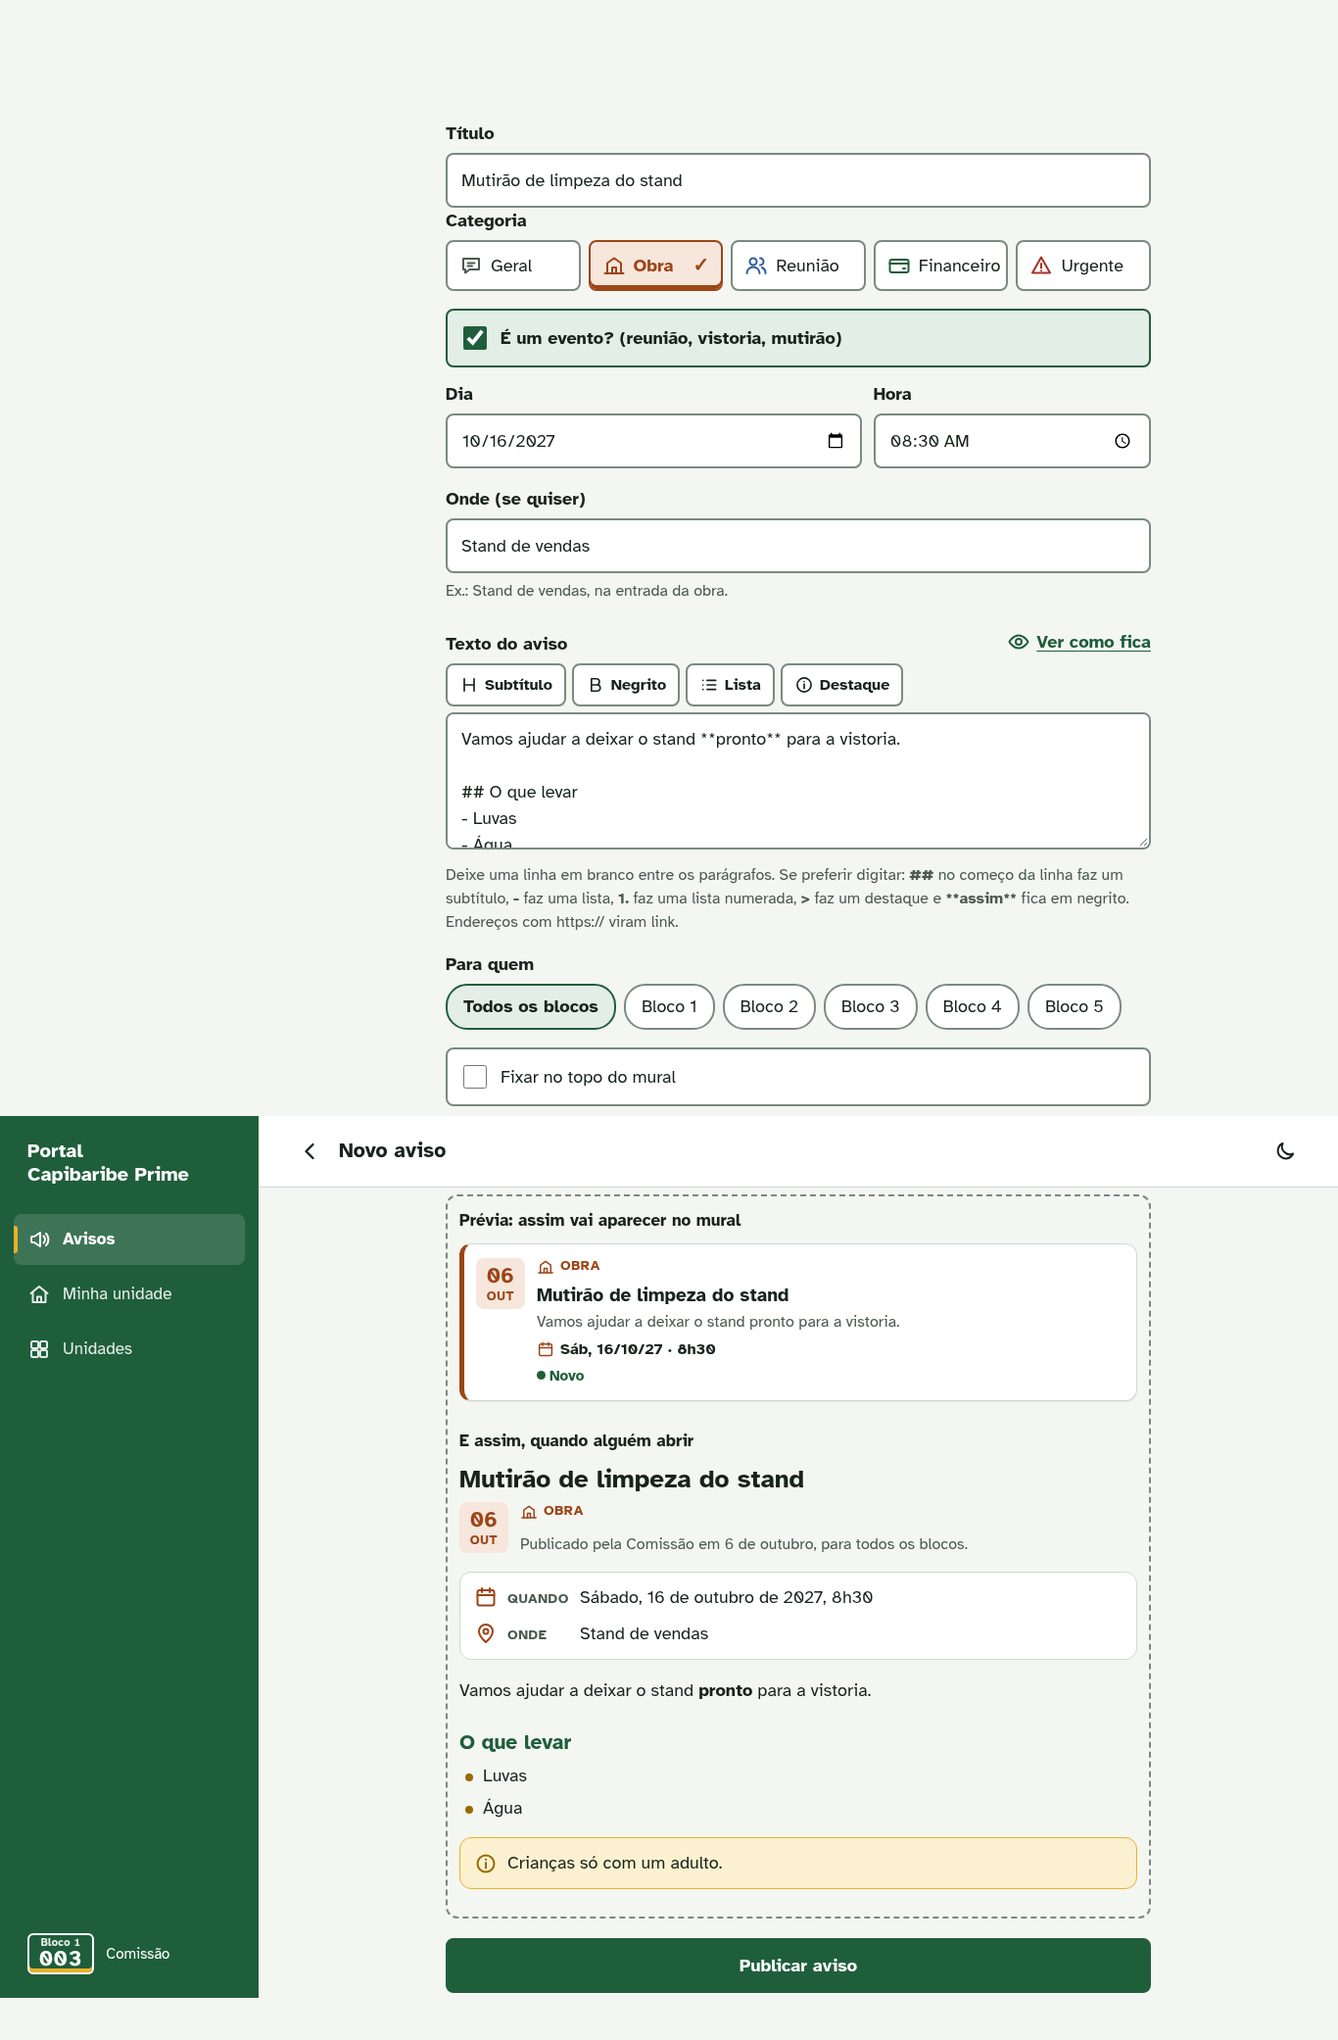
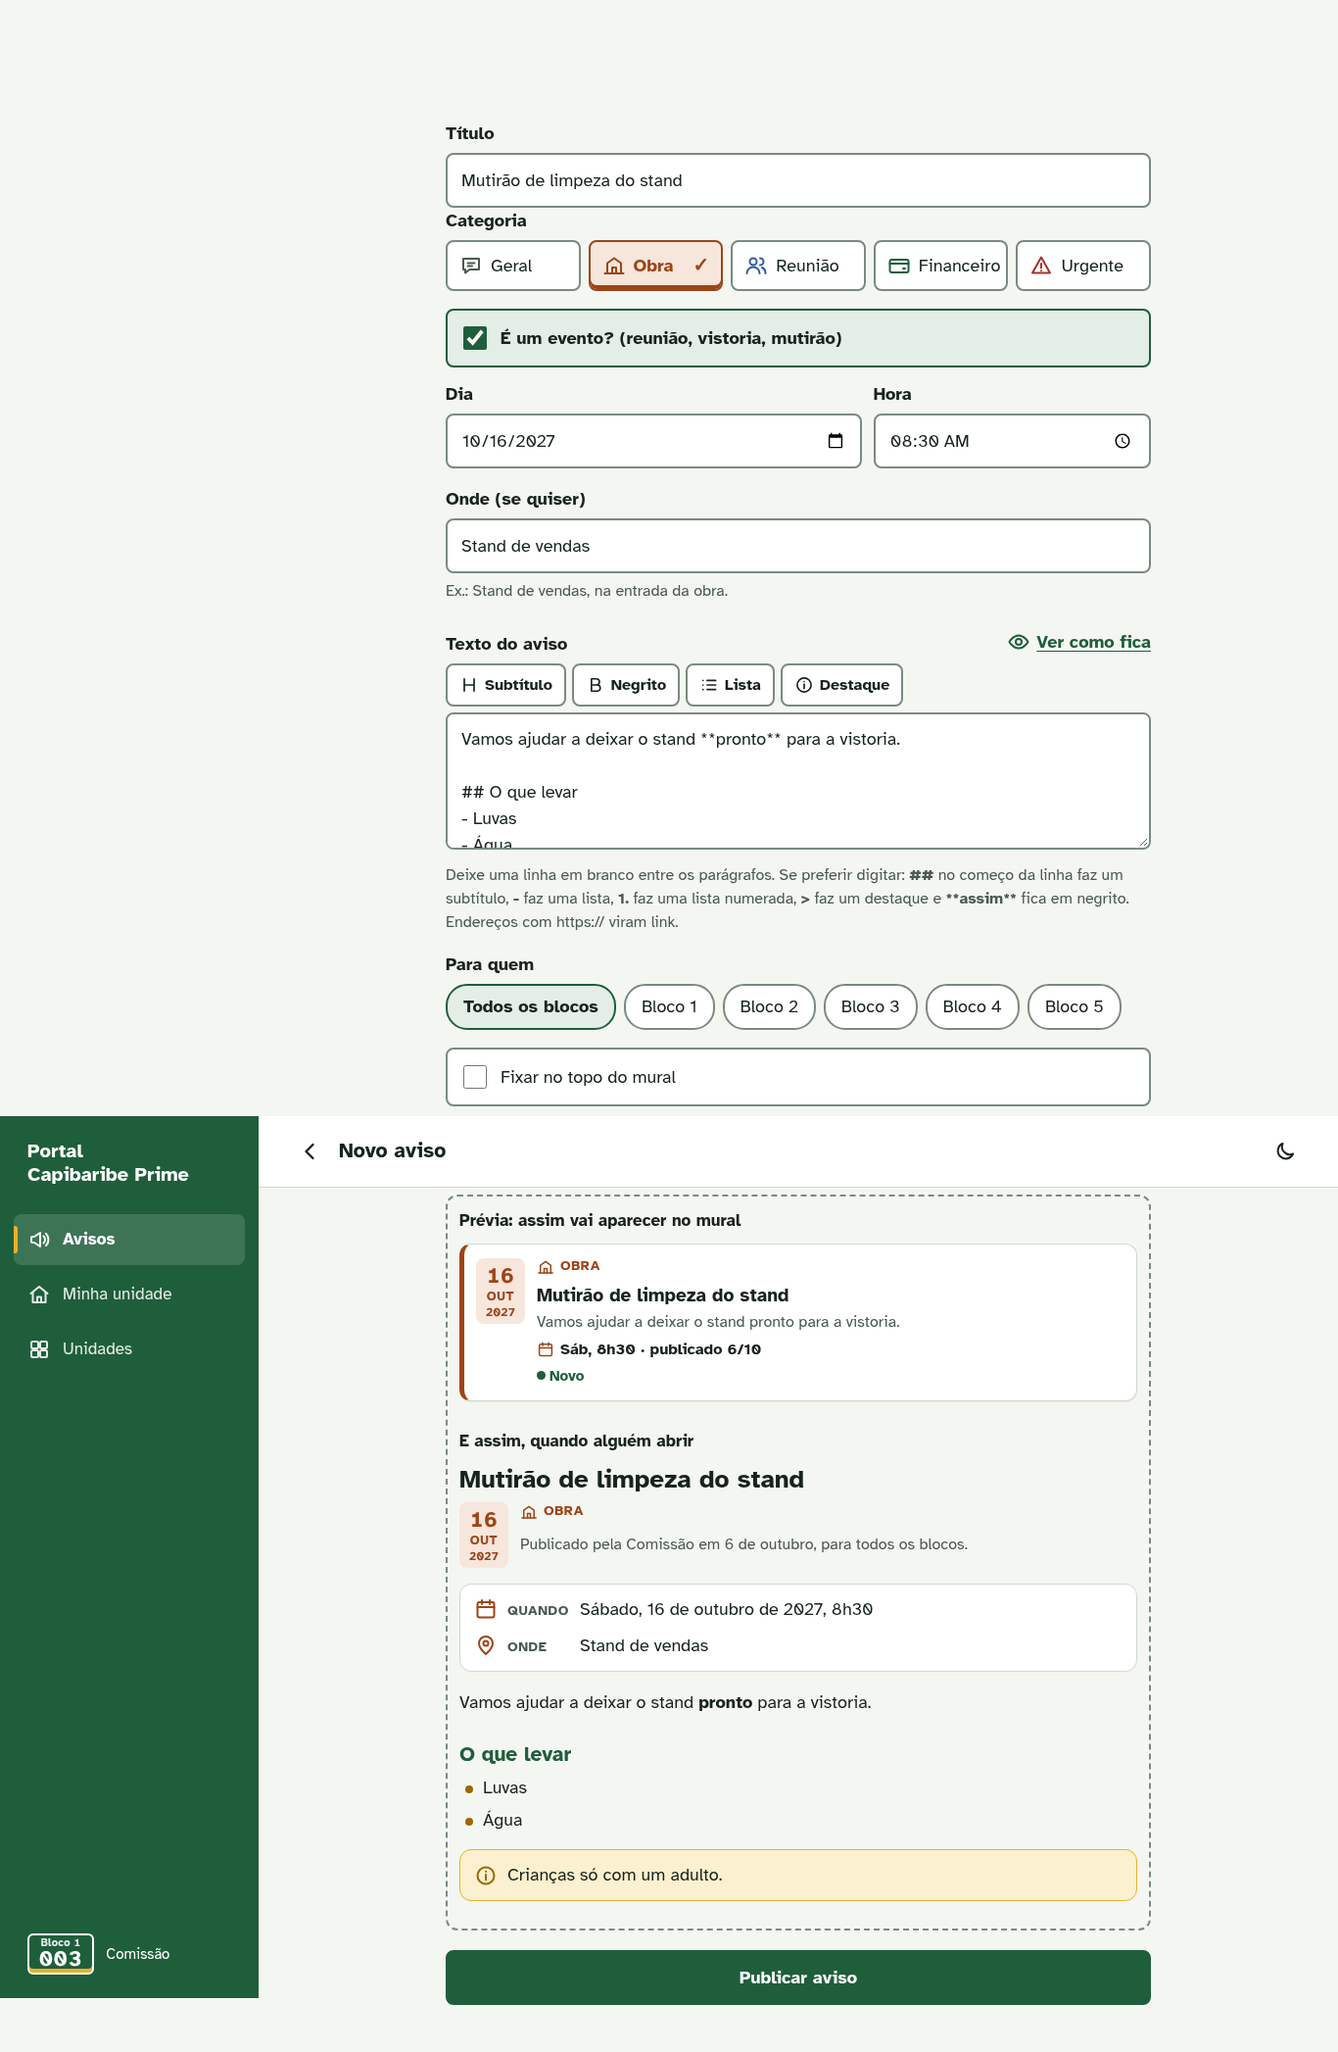
feat(web): no aviso que é evento, o bloco de data é o dia do evento
Decisão do Erick (dúvida A da revisão de UX). Mural e aviso aberto: com
evento, o bloco mostra o dia do evento (com o ano se não for o corrente);
sem evento, a publicação. A linha do cartão não repete a data: "Sáb, 9h ·
publicado 6/10" ou "Já aconteceu · publicado 6/10". O leitor de tela
ouve "Evento em …" ou "Publicado em …". A frase de publicação, o quadro
Quando/Onde e a ordem do mural não mudam. Spec §3.4 e dúvidas
atualizadas; prints refeitos.

diff --git a/web/src/avisos/componentes.tsx b/web/src/avisos/componentes.tsx
@@ -4,7 +4,14 @@ import { Link } from 'react-router'
 import { formatarData } from '../casca/formatar'
 import { Icone } from '../casca/Icone'
 import { infoDaCategoria } from './categorias'
-import { dataEmBloco, eventoCurto, eventoPorExtenso, jaAconteceu } from './datas'
+import {
+  dataEmBloco,
+  dataPorExtenso,
+  eventoCurto,
+  eventoNaLinha,
+  eventoPorExtenso,
+  jaAconteceu,
+} from './datas'
 import { analisar, trechos, type Bloco } from './formatacao'
 import { assinatura, blocosEmTexto, destinoEmTexto } from './formatos'
 import type { AvisoResumo, Categoria, Evento } from './tipos'
@@ -119,17 +126,24 @@ export function RotuloCategoria({ categoria }: { categoria: Categoria }) {
   )
 }
 
-/** Data da publicação em bloco (dia grande, mês embaixo). O leitor de tela lê por extenso. */
-export function DataEmBloco({ iso, lida = true }: { iso: string; lida?: boolean }) {
-  const { dia, mes } = dataEmBloco(iso)
+/**
+ * Data em bloco (dia grande, mês embaixo, o ano se não for o de hoje). Decisão do Erick (dúvida
+ * A): no aviso que é evento, o bloco é o dia do EVENTO; nos outros, o da publicação. O leitor de
+ * tela ouve o que a data é: "Evento em 10 de outubro" ou "Publicado em 6 de outubro".
+ */
+export function DataEmBloco({ publicado, evento }: { publicado: string; evento: string | null }) {
+  const iso = evento ?? publicado
+  const { dia, mes, ano } = dataEmBloco(iso)
   return (
     <>
       <span className="data-bloco" aria-hidden="true">
         <span className="dia">{dia}</span>
         <span className="mes">{mes}</span>
+        {ano && <span className="ano">{ano}</span>}
       </span>
-      {/* `lida = false`: a data já está escrita ao lado (aviso aberto). */}
-      {lida && <span className="oculto">{formatarData(iso)}</span>}
+      <span className="oculto">
+        {evento ? 'Evento' : 'Publicado'} em {dataPorExtenso(iso)}
+      </span>
     </>
   )
 }
@@ -187,12 +201,13 @@ function Meta({ aviso, arquivados, comData }: PropsMeta) {
   )
 }
 
-/** "Sáb, 11/10 · 9h" (ou "Já aconteceu") no cartão do mural. */
-function LinhaEvento({ quando }: { quando: string }) {
+/** No cartão (o bloco já tem o dia do evento): "Sáb, 9h · publicado 6/10". No fixado, que não
+ *  tem bloco: "Sáb, 11/10 · 9h". Evento passado: "Já aconteceu". */
+function LinhaEvento({ quando, publicado }: { quando: string; publicado?: string }) {
   return (
     <span className="linha-evento">
       <Icone nome="calendario" tamanho={18} />
-      {eventoCurto(quando)}
+      {publicado ? eventoNaLinha(quando, publicado) : eventoCurto(quando)}
     </span>
   )
 }
@@ -209,13 +224,15 @@ export function ItemAviso({ aviso, arquivados, previa }: PropsItem) {
   const classe = `cartao-aviso cat-${aviso.categoria}${chamaAtencao(aviso, arquivados) ? ' novo' : ''}`
   const conteudo = (
     <>
-      <DataEmBloco iso={aviso.publicado_em} />
+      <DataEmBloco publicado={aviso.publicado_em} evento={aviso.evento_quando} />
       <span className="cartao-corpo">
         <RotuloCategoria categoria={aviso.categoria} />
         {/* h2: no mural, o h1 é o título da tela (U9, heading-order). */}
         <h2>{aviso.titulo}</h2>
         {aviso.resumo && <span className="cartao-resumo">{aviso.resumo}</span>}
-        {aviso.evento_quando && <LinhaEvento quando={aviso.evento_quando} />}
+        {aviso.evento_quando && (
+          <LinhaEvento quando={aviso.evento_quando} publicado={aviso.publicado_em} />
+        )}
         <Meta aviso={aviso} arquivados={arquivados} />
       </span>
       {!previa && (
@@ -277,7 +294,7 @@ export function CorpoDoAviso({ aviso, evento, texto, avisos, nivel = 2 }: PropsC
   return (
     <>
       <header className="aviso-cabecalho">
-        <DataEmBloco iso={aviso.publicado_em} lida={false} />
+        <DataEmBloco publicado={aviso.publicado_em} evento={evento?.quando ?? null} />
         <div>
           <RotuloCategoria categoria={aviso.categoria} />
           <p className="suave">

diff --git a/web/src/avisos/telas.test.tsx b/web/src/avisos/telas.test.tsx
@@ -642,12 +642,22 @@ describe('mural modelo A: categoria, data em bloco e evento', () => {
     expect(within(fixado).getByText('Geral')).toBeTruthy()
   })
 
-  it('data da publicação em bloco (dia e mês), lida por extenso pelo leitor de tela', async () => {
+  it('sem evento, o bloco é a publicação, e o leitor de tela ouve "Publicado em …"', async () => {
+    await abrirMural()
+    const reajuste = screen.getByText('Reajuste').closest('a')!
+    const bloco = reajuste.querySelector('.data-bloco')!
+    expect(bloco.getAttribute('aria-hidden')).toBe('true')
+    expect(bloco.textContent).toBe('03nov')
+    expect(within(reajuste).getByText('Publicado em 3 de novembro')).toBeTruthy()
+  })
+
+  it('decisão do Erick (dúvida A): com evento, o bloco é o dia do EVENTO', async () => {
     const vistoria = await abrirMural()
     const bloco = vistoria.querySelector('.data-bloco')!
-    expect(bloco.getAttribute('aria-hidden')).toBe('true')
-    expect(bloco.textContent).toBe('04out')
-    expect(within(vistoria).getByText('4 de outubro')).toBeTruthy()
+    // Evento em outro ano: o ano vai no bloco.
+    expect(bloco.textContent).toBe('10out2099')
+    expect(within(vistoria).getByText('Evento em 10 de outubro de 2099')).toBeTruthy()
+    expect(within(vistoria).queryByText(/Publicado em/)).toBeNull()
   })
 
   it('resumo embaixo do título', async () => {
@@ -657,9 +667,11 @@ describe('mural modelo A: categoria, data em bloco e evento', () => {
 
   it('evento futuro mostra dia e hora; o que já passou mostra "Já aconteceu"', async () => {
     const vistoria = await abrirMural()
-    expect(within(vistoria).getByText('Sáb, 10/10/99 · 9h')).toBeTruthy()
+    // A data já está no bloco: a linha diz o dia da semana, a hora e quando foi publicado.
+    expect(within(vistoria).getByText('Sáb, 9h · publicado 4/10')).toBeTruthy()
     const assembleia = screen.getByText('Assembleia').closest('a')!
-    expect(within(assembleia).getByText('Sáb, 10/10/20 · Já aconteceu')).toBeTruthy()
+    expect(within(assembleia).getByText('Já aconteceu · publicado 3/11')).toBeTruthy()
+    expect(assembleia.querySelector('.data-bloco')?.textContent).toBe('10out2020')
     const reajuste = screen.getByText('Reajuste').closest('a')!
     expect(reajuste.querySelector('.linha-evento')).toBeNull()
   })
@@ -695,6 +707,16 @@ describe('aviso aberto: cabeçalho, quadro do evento e texto formatado', () => {
     expect(artigo.classList.contains('cat-obra')).toBe(true)
     expect(within(artigo).getByText('Obra')).toBeTruthy()
     expect(artigo.querySelector('.data-bloco')?.textContent).toBe('03nov')
+    expect(within(artigo).getByText('Publicado em 3 de novembro')).toBeTruthy()
+  })
+
+  it('decisão do Erick (dúvida A): aviso de evento tem no bloco o dia do evento', async () => {
+    await abrirAviso({ evento: { quando: FUTURO, onde: null } })
+    const artigo = document.querySelector('article')!
+    expect(artigo.querySelector('.data-bloco')?.textContent).toBe('10out2099')
+    expect(within(artigo).getByText('Evento em 10 de outubro de 2099')).toBeTruthy()
+    // A frase continua dizendo a publicação.
+    expect(within(artigo).getByText(/Publicado pela Comissão em 3 de novembro/)).toBeTruthy()
   })
 
   it('evento: quadro "Quando / Onde" logo depois do cabeçalho', async () => {
@@ -934,7 +956,7 @@ describe('formulário: categoria, barra de marcas, "Ver como fica" e evento', ()
       '.previa',
     ) as HTMLElement
     expect(within(previa).getAllByText('Reunião').length).toBe(2)
-    expect(within(previa).getByText('Sáb, 10/10/99 · 19h30')).toBeTruthy()
+    expect(within(previa).getByText(/^Sáb, 19h30 · publicado \d+\/\d+$/)).toBeTruthy()
     expect(within(previa).getByText('Sábado, 10 de outubro de 2099, 19h30')).toBeTruthy()
   })
 

diff --git a/web/src/avisos/datas.test.ts b/web/src/avisos/datas.test.ts
@@ -1,6 +1,14 @@
 // Datas do mural e do evento, sempre no horário de Recife.
 import { describe, expect, it } from 'vitest'
-import { dataEmBloco, deRecife, eventoCurto, eventoPorExtenso, paraOFormulario } from './datas'
+import {
+  dataEmBloco,
+  dataPorExtenso,
+  deRecife,
+  eventoCurto,
+  eventoNaLinha,
+  eventoPorExtenso,
+  paraOFormulario,
+} from './datas'
 
 describe('datas do aviso (America/Recife)', () => {
   it('data em bloco: dia com dois dígitos e mês abreviado', () => {
@@ -34,6 +42,33 @@ describe('datas do aviso (America/Recife)', () => {
     expect(eventoCurto('2025-10-11T12:00:00Z', em2026)).toBe('Sáb, 11/10/25 · Já aconteceu')
     // No mesmo ano, sem o ano.
     expect(eventoPorExtenso('2026-10-10T12:00:00Z', em2026)).toBe('Sábado, 10 de outubro, 9h')
+  })
+
+  it('dúvida A: bloco com o ano quando é de outro ano', () => {
+    const em2026 = new Date('2026-10-06T12:00:00Z')
+    expect(dataEmBloco('2026-10-10T12:00:00Z', em2026)).toEqual({ dia: '10', mes: 'out' })
+    expect(dataEmBloco('2027-10-09T12:00:00Z', em2026)).toEqual({
+      dia: '09',
+      mes: 'out',
+      ano: '2027',
+    })
+  })
+
+  it('dúvida A: linha do evento no cartão sem repetir a data do bloco', () => {
+    const em2026 = new Date('2026-10-06T12:00:00Z')
+    const publicado = '2026-10-06T12:00:00Z'
+    expect(eventoNaLinha('2026-10-10T12:00:00Z', publicado, em2026)).toBe(
+      'Sáb, 9h · publicado 6/10',
+    )
+    expect(eventoNaLinha('2026-10-03T22:30:00Z', publicado, em2026)).toBe(
+      'Já aconteceu · publicado 6/10',
+    )
+  })
+
+  it('dúvida A: data por extenso para o leitor de tela', () => {
+    const em2026 = new Date('2026-10-06T12:00:00Z')
+    expect(dataPorExtenso('2026-10-10T12:00:00Z', em2026)).toBe('10 de outubro')
+    expect(dataPorExtenso('2027-10-09T12:00:00Z', em2026)).toBe('9 de outubro de 2027')
   })
 
   it('formulário: dia e hora de Recife, ida e volta', () => {

diff --git a/web/src/avisos/datas.ts b/web/src/avisos/datas.ts
@@ -70,10 +70,30 @@ function horario({ hora, minuto }: Partes): string {
   return minuto ? `${hora}h${doisDigitos(minuto)}` : `${hora}h`
 }
 
-/** O bloco de data do mural: `{ dia: '04', mes: 'out' }`. */
-export function dataEmBloco(iso: string): { dia: string; mes: string } {
+/** O bloco de data: `{ dia: '04', mes: 'out' }`, com `ano` se não for o ano de hoje. */
+export function dataEmBloco(
+  iso: string,
+  agora: Date = new Date(),
+): { dia: string; mes: string; ano?: string } {
   const p = emRecife(iso)
-  return { dia: doisDigitos(p.dia), mes: MESES[p.mes - 1] }
+  const bloco = { dia: doisDigitos(p.dia), mes: MESES[p.mes - 1] }
+  return outroAno(p, agora) ? { ...bloco, ano: String(p.ano) } : bloco
+}
+
+/** "10 de outubro" ou, em outro ano, "9 de outubro de 2027" (o rótulo do bloco de data). */
+export function dataPorExtenso(iso: string, agora: Date = new Date()): string {
+  const p = emRecife(iso)
+  const ano = outroAno(p, agora) ? ` de ${p.ano}` : ''
+  return `${p.dia} de ${MESES_POR_EXTENSO[p.mes - 1]}${ano}`
+}
+
+/** Linha do evento no cartão do mural, quando o bloco já mostra o dia do evento (dúvida A):
+ *  "Sáb, 9h · publicado 6/10" ou "Já aconteceu · publicado 6/10". */
+export function eventoNaLinha(quando: string, publicado: string, agora: Date = new Date()): string {
+  const p = emRecife(quando)
+  const pub = emRecife(publicado)
+  const inicio = new Date(quando) < agora ? 'Já aconteceu' : `${DIAS[p.semana]}, ${horario(p)}`
+  return `${inicio} · publicado ${pub.dia}/${pub.mes}`
 }
 
 /** O evento é de outro ano que o de hoje (em Recife)? Aí a data leva o ano (revisão UX 1). */

diff --git a/web/src/avisos/avisos.css b/web/src/avisos/avisos.css
@@ -66,6 +66,11 @@
   font-size: 22px;
 }
 
+.data-bloco .ano {
+  margin-top: 3px;
+  font-size: 12px;
+}
+
 .data-bloco .mes {
   margin-top: 4px;
   font-size: 13px;

diff --git a/docs/superpowers/duvidas-avisos-visual.md b/docs/superpowers/duvidas-avisos-visual.md
@@ -22,8 +22,8 @@ Branch `avisos/visual`. Spec: `specs/2026-10-06-avisos-visual-design.md`; plano:
    esperado pela spec; o aviso de boas-vindas atual (com MAIÚSCULAS) não tem essas marcas.
 8. **"Ver como fica" mostra só o texto renderizado** (o mesmo `TextoDoAviso` do aviso aberto); a
    prévia completa (cartão do mural + aviso aberto com cabeçalho e quadro) continua no "Ver prévia".
-9. **Data em bloco do cartão é a da publicação** (spec 3.4); o fixado mantém a data na linha de
-   detalhes. Ver dúvida A.
+9. **Data em bloco:** a da publicação, ou o dia do evento quando o aviso é evento (dúvida A,
+   decidida pelo Erick). O fixado não tem bloco e mantém a data na linha de detalhes.
 10. **Evento em outro ano mostra o ano** ("Sáb, 09/10/27 · 9h", "Sábado, 9 de outubro de 2027,
     9h"), achado da revisão de UX.
 11. **Barra: "Subtítulo, Negrito, Lista, Destaque"** (a spec dizia "Título"). Com dois "Título"
@@ -53,8 +53,8 @@ numerada), 10 (ícone de Geral), 11 (✓ na categoria escolhida), 12 (verificaç
 abaixo).
 
 Descartados ou para o Erick:
-- **2. O bloco de data é da publicação, e parece a data do evento.** A spec (decisão do Erick,
-  modelo A) diz publicação. Ver dúvida A.
+- **2. O bloco de data é da publicação, e parece a data do evento.** Levado ao Erick (dúvida A),
+  que decidiu: com evento, o bloco é o dia do evento. Implementado com teste.
 - **4. "Ver como fica" e "Ver prévia" no mesmo formulário.** Nomes da spec e do M1; os dois
   fazem coisas diferentes (texto × aviso inteiro). Fica como está até o ensaio com vizinhos.
 - **9. Negrito sem seleção insere "negrito" selecionado.** É de propósito: a palavra fica
@@ -78,10 +78,12 @@ Descartados:
 
 ## Dúvidas para o Erick
 
-- **A. Data em bloco no aviso que é evento.** Hoje o bloco grande ("06 OUT") é a publicação, e a
-  data do evento é a linha com calendário. A revisão de UX acha que a Dona Socorro vai ler o bloco
-  como o dia do evento. Opção: quando há evento, o bloco mostra o dia do evento e a publicação vai
-  para a linha de detalhes.
+- **A. Data em bloco no aviso que é evento. DECIDIDA PELO ERICK (06/10):** quando o aviso é um
+  evento, o bloco (no mural e no aviso aberto) mostra o dia do evento, com o ano se não for o
+  corrente; a linha do cartão vira "Sáb, 9h · publicado 6/10" (ou "Já aconteceu · publicado
+  6/10"); o leitor de tela ouve "Evento em …" ou "Publicado em …". A frase "Publicado pela … em …"
+  do aviso aberto e o quadro Quando/Onde não mudam; a ordem do mural continua pela publicação.
+  Spec §3.4 atualizada.
 - **B. Dia e hora no Chrome headless saíram no formato dos EUA** (mm/dd/aaaa, AM) mesmo com
   `--lang=pt-BR` e `locale: 'pt-BR'`: o headless ignora o idioma nos campos `date`/`time`. Num
   celular em português aparecem dd/mm/aaaa e 24 h. Vale olhar num Android de verdade no ensaio.

diff --git a/docs/superpowers/specs/2026-10-06-avisos-visual-design.md b/docs/superpowers/specs/2026-10-06-avisos-visual-design.md
@@ -80,11 +80,17 @@ de teste do backup reprova (head ≠ produção).
 
 ### 3.4 Telas
 
-- **Mural (modelo A):** faixa lateral de 5px na cor da categoria; bloco de data (publicação) com
-  fundo suave da categoria; rótulo "ÍCONE CATEGORIA" em maiúsculas pequenas acima do título; evento
-  ganha uma linha com ícone de calendário "Sáb, 11/10 · 9h" (fuso America/Recife) e, se a data já
-  passou, "Já aconteceu" no lugar do horário; selos "Novo" e "Corrigido" continuam.
-- **Aviso aberto:** cabeçalho com bloco de data + categoria + h1 + "quem publicou · para quem";
+- **Mural (modelo A):** faixa lateral de 5px na cor da categoria; bloco de data com fundo suave
+  da categoria; rótulo "ÍCONE CATEGORIA" em maiúsculas pequenas acima do título; selos "Novo" e
+  "Corrigido" continuam. **Bloco de data (decisão do Erick, 06/10, depois da revisão de UX):** no
+  aviso que é evento, o bloco mostra o dia do **evento** (fuso America/Recife; o ano entra no
+  bloco quando não é o ano corrente); nos outros, o da publicação. O evento ganha uma linha com
+  ícone de calendário que não repete a data: "Sáb, 9h · publicado 6/10" e, se já passou, "Já
+  aconteceu · publicado 6/10". O leitor de tela ouve o que o bloco é: "Evento em 11 de outubro" ou
+  "Publicado em 6 de outubro". A ordem do mural continua pela publicação (fixados primeiro). O
+  fixado não tem bloco: a linha do evento dele é "Sáb, 11/10 · 9h".
+- **Aviso aberto:** cabeçalho com bloco de data (mesma regra: evento → dia do evento) + categoria
+  + h1 + "quem publicou · para quem" (a frase "Publicado pela … em …" continua com a publicação);
   quadro Quando/Onde (cartão branco, ícones de calendário e local) quando houver evento; texto
   pelo renderizador; o "Corrigido em… / Ver como era antes" continua, e a versão antiga também é
   renderizada formatada, com categoria e evento dela.
